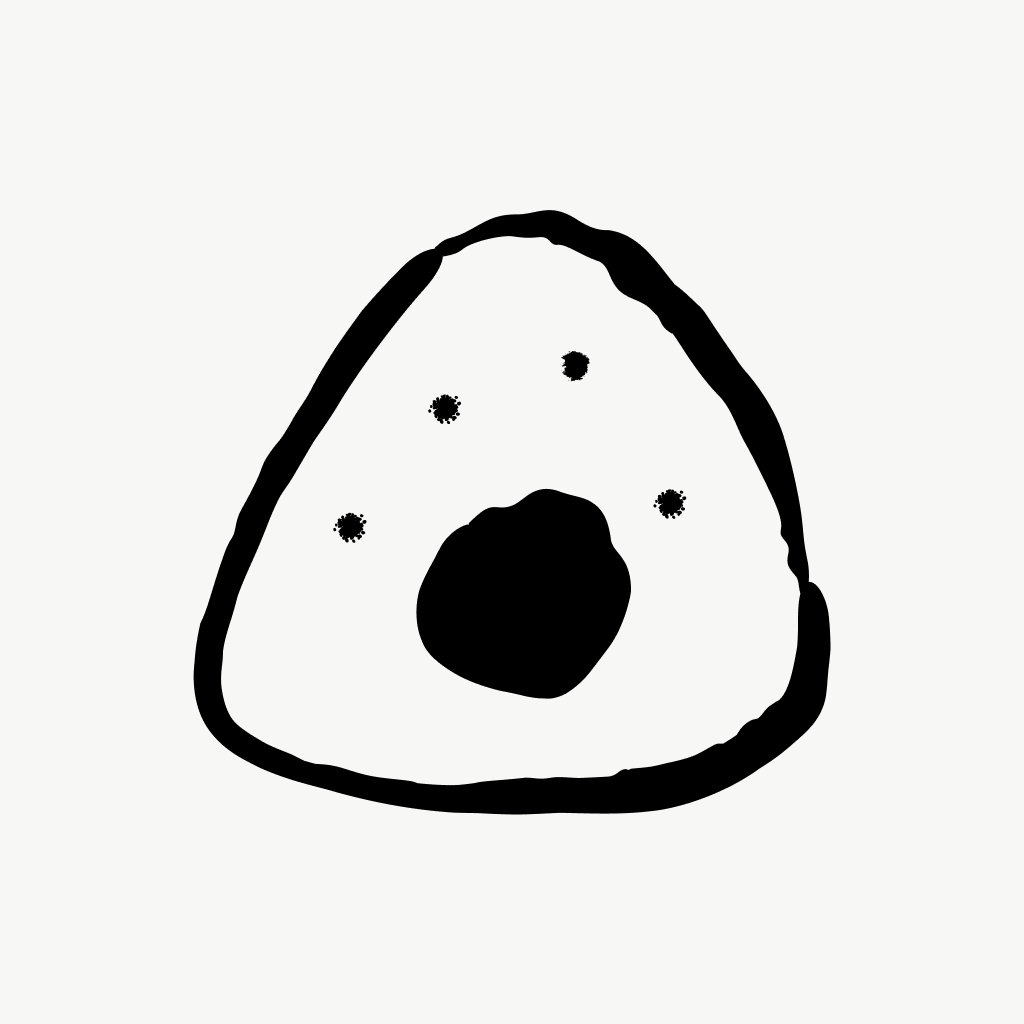
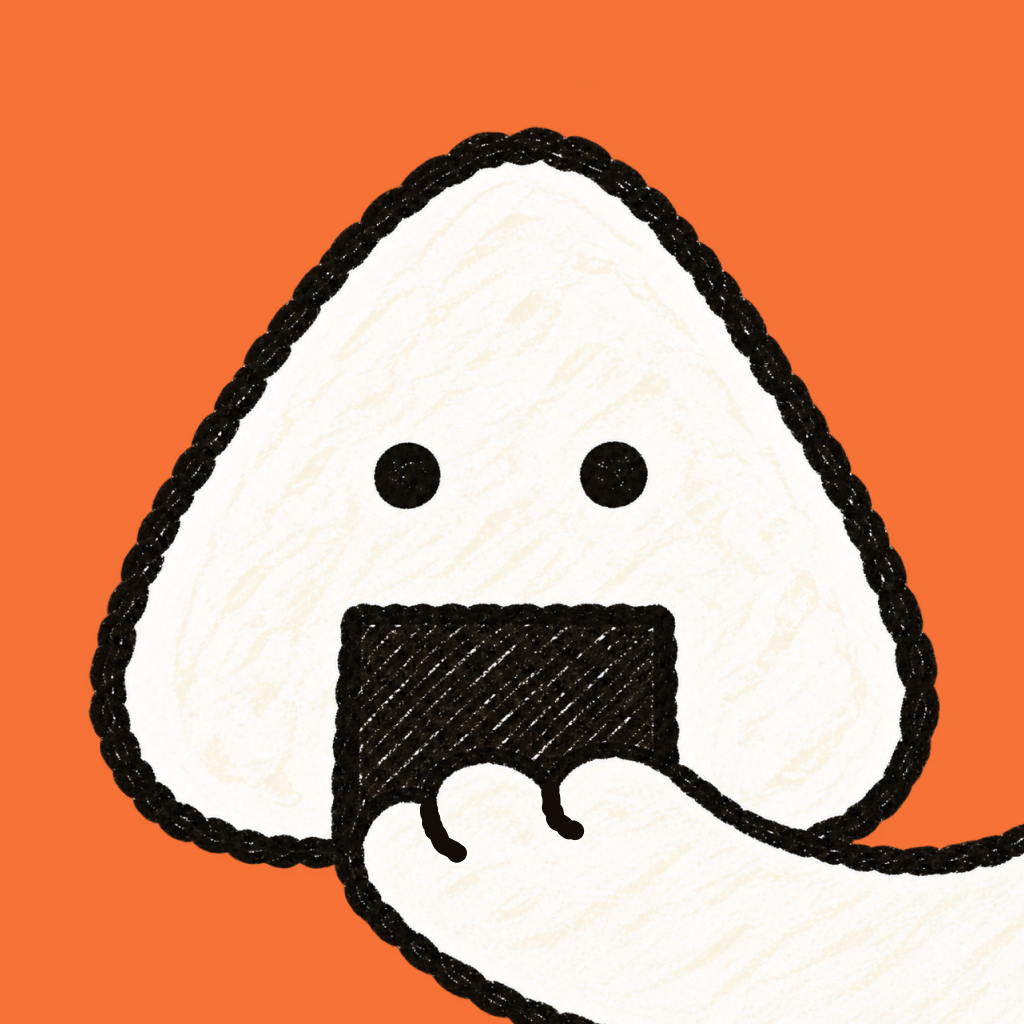
chore(release): refresh app and Play Store artwork

diff --git a/docs/release/RELEASE_CHECKLIST.md b/docs/release/RELEASE_CHECKLIST.md
@@ -1,6 +1,6 @@
 # Release Checklist — 오니칸 (AshitaKanji)
 
-Last updated: 2026-09-27
+Last updated: 2026-09-28
 App: 오니칸 / slug `ashitakanji` / bundleId `com.taiyoungkim.ashitakanji` (iOS+Android 동일)
 Current version: **1.0.0**
 
@@ -16,7 +16,7 @@ Current version: **1.0.0**
 | **P1** | 심사 통과·광고 게재에 필수 | reject 또는 광고 노출 안 됨 |
 | **P2** | 출시 직후/품질 | 출시는 되나 리스크 |
 
-현재 상태 한 줄: **서명된 Google Play production AAB(build 38)까지 준비됨. 남은 작업은 Play Console 수동 업로드·콘솔 설문·실기기 검증.**
+현재 상태 한 줄: **새 앱 아이콘을 포함한 서명된 Google Play production AAB(build 40)까지 준비됨. 남은 작업은 Play Console 초안의 build 38 교체·콘솔 설문·실기기 검증.**
 
 ### 자동 게이트 결과 (2026-09-27)
 
@@ -39,11 +39,11 @@ Current version: **1.0.0**
 - [x] **production AAB 생성** — EAS production profile을 로컬 실행해 원격 Play 업로드 키를 주입한 서명본 생성. 일반 로컬 Gradle release(debug keystore)는 제출본으로 사용 금지.
   - 2026-09-27 첫 시도(build 34)는 Metro eager bundle 99.9%에서 메모리 부족(code 137).
   - 무료 `medium` 원격 빌드는 Metro 통과 후 `createReleaseUpdatesResources`에서 다시 메모리 부족(code 137). 같은 production profile과 원격 keystore로 공식 EAS local build를 실행해 우회.
-  - 제출 파일: `releases/Onikan-google-play-v1.0.0-build38.aab` (versionName `1.0.0`, versionCode `38`, 190 MB).
[1 lines of base64/hex data omitted]
+  - 제출 파일: `releases/Onikan-google-play-v1.0.0-build40.aab` (versionName `1.0.0`, versionCode `40`, 190 MB). build 38은 Play 내부 테스트의 미출시 초안에만 업로드되어 있어 교체 대상.
[1 lines of base64/hex data omitted]
   - 검증: Gradle 1,034 tasks 성공, `jarsigner` 검증 성공, ZIP 무결성 성공, MP3 0개·OGG 14,054개 포함.
-- [ ] **첫 AAB 수동 업로드** — Play Console에서 직접 업로드. `./secrets/play-service-account.json`은 EAS Submit 자동화 도입 전까지 선택 사항.
-- [x] **스토어 그래픽 자산** — `store-assets/`에 시뮬레이터 실화면 리사이즈본 있음 (iOS 6.7/6.5/5.5/iPad, Android phone, feature 1024×500, icon 512). 제출 전 한 번 눈으로 확인.
+- [ ] **최종 AAB 수동 업로드** — build 38 초안을 제거하고 build 40을 Play Console 내부 테스트 트랙에 직접 업로드. `./secrets/play-service-account.json`은 EAS Submit 자동화 도입 전까지 선택 사항.
+- [x] **스토어 그래픽 자산** — 2026-09-28 새 오니기리 아이콘으로 앱/Play 아이콘을 통일하고, Android 9:16 스크린샷 7장(1539×2736)과 feature graphic(1024×500)을 갱신·육안 확인.
 - [ ] **prod 빌드 실광고 1회 확인** — `__DEV__=false` 빌드에서 실 Unit 로드되는지. ⚠ 본인 클릭 금지 (계정 정지)
 
 ## P1 — 심사 통과·광고 게재 필수
@@ -90,7 +90,7 @@ Age rating surveys: mark **ads / advertising present**. Do not mark as child-dir
 ## 추천 실행 순서
 
 1. Play Console에서 앱 레코드 생성 (`오니칸`, 기본 언어 한국어, 앱/무료)
-2. `build38.aab`를 내부 테스트 트랙에 수동 업로드
+2. 내부 테스트 초안의 build 38을 제거하고 `build40.aab`를 수동 업로드
 3. Play Data Safety·광고 포함·콘텐츠 등급·대상 연령·앱 액세스 설문 작성
 4. 스토어 설명·아이콘·feature graphic·Android 스크린샷·지원 URL/이메일 등록
 5. 내부 테스트 설치 → 콜드 스타트·첫 학습·TTS·실광고 1회 확인 (본인 광고 클릭 금지)
